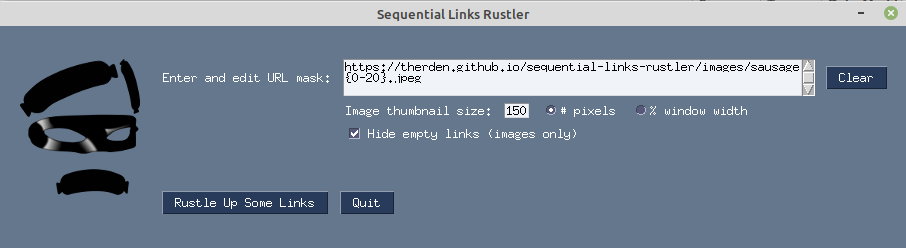
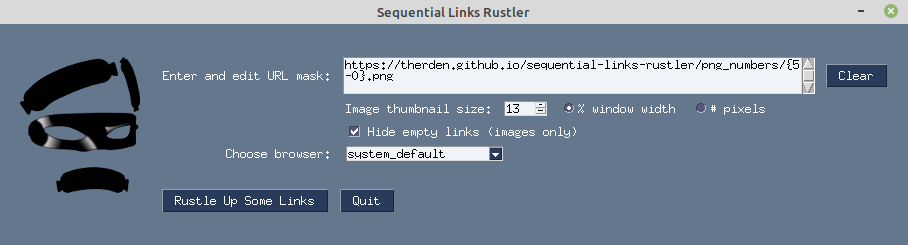
Allow user to select browser (Fixes https://github.com/therden/sequential-links-rustler/issues/3

diff --git a/main.py b/main.py
@@ -11,7 +11,9 @@ will include the "stop" value.
 
 See the doc string for each function for more details.
 """
-import os, re, textwrap, webbrowser
+import os, re, textwrap, threading, webbrowser
+
+from lookup import supported_image_extensions
 
 
 def check_sequence_definitions(sequence_defs):
@@ -114,7 +116,7 @@ def get_URL_list_generator(URL_mask):
     return (new_URL_mask % each for each in value_tuples)
 
 
-def get_HTML_file(URL_mask, targetfile=None, thumbsize="150px", hide_missing=False):
+def get_HTML_file(URL_mask, targetfile=None, thumbsize="16%", hide_missing=False):
     """
     Accepts a URL_mask and saves all of the URL links which it defines to a
     file ("links.html" by default, but target file name can be overwritten.)
@@ -178,27 +180,9 @@ def get_HTML_file(URL_mask, targetfile=None, thumbsize="150px", hide_missing=Fal
 
 
 def are_links_images(URL_mask):
-    image_extensions = (
-        "apng",
-        "avif",
-        "bmp",
-        "gif",
-        "ico",
-        "jpg",
-        "jpeg",
-        "jfif",
-        "pjpeg",
-        "pjp",
-        "png",
-        "svg",
-        "webp",
-        "cur",
-        "tif",
-        "tiff",
-    )
     URL_mask = URL_mask.strip().lower()
     _, ext = URL_mask[-6:].split(".")
-    return ext in image_extensions
+    return ext in supported_image_extensions
 
 
 # def open_file_in_firefox(URL):
@@ -206,22 +190,38 @@ def are_links_images(URL_mask):
 #     webbrowser.register("firefox", None, webbrowser.GenericBrowser("firefox"))
 #     ff = webbrowser.get("firefox")
 #     ff.open_new_tab(URL)
+#
+#
+# def open_file_in_default_browser(URL):
+#     """The name says it all."""
+#     wb = webbrowser.get()
+#     wb.open_new_tab(URL)
 
 
-def open_file_in_default_browser(URL):
+def open_file_in_selected_browser(URL, selected_browser=None):
     """The name says it all."""
-    wb = webbrowser.get()
-    wb.open_new_tab(URL)
+    if selected_browser in ("system_default", None):
+        wb = webbrowser.get()
+    else:
+        webbrowser.register(
+            selected_browser, None, webbrowser.GenericBrowser(selected_browser)
+        )
+        wb = webbrowser.get(using=selected_browser)
+    browser_process = lambda: wb.open_new_tab(URL)
+    t = threading.Thread(target=browser_process)
+    t.start()
 
 
 def make_and_open_HTML_file_from_URL_mask(
-    URL_mask, targetfile=None, thumbsize="150px", hide_missing=True
+    URL_mask, targetfile=None, selected_browser=None, thumbsize="16%", hide_missing=True
 ):
     """Again: the name says it all.  Uses the functions defined above."""
     URL = get_HTML_file(
         URL_mask, targetfile=targetfile, thumbsize=thumbsize, hide_missing=hide_missing
     )
-    open_file_in_default_browser(URL)
+    # open_file_in_default_browser(URL)
+    # open_file_in_selected_browser(URL, selected_browser=None)
+    open_file_in_selected_browser(URL, selected_browser=selected_browser)
 
 
 rustle_up_some_links = make_and_open_HTML_file_from_URL_mask
@@ -251,4 +251,6 @@ def test_URL_generation_from_masks():
 
 
 if __name__ == "__main__":
-    test_URL_generation_from_masks()
+    # test_URL_generation_from_masks()
+    # open_file_in_selected_browser("rustled.html", selected_browser="firefox")
+    open_file_in_selected_browser("rustled.html", selected_browser="chromium-browser")

diff --git a/slr.py b/slr.py
@@ -3,7 +3,9 @@ import multiprocessing, random
 import PySimpleGUI as sg
 
 from main import rustle_up_some_links as do_it
+from lookup import supported_browsers
 
+thumbsize_percentages = [str(each) for each in range(1, 101)]
 
 # Define the window's contents
 window_title = "Sequential Links Rustler"
@@ -61,7 +63,13 @@ layout = [
                 # [sg.Text("")],
                 [
                     sg.Text((26 * " ") + "Image thumbnail size:"),
-                    sg.Input(size=(3, 1), default_text="14", key="-ThumbSizeNum-"),
+                    # sg.Input(size=(3, 1), default_text="13", key="-ThumbSizeNum-"),
+                    sg.Spin(
+                        thumbsize_percentages,
+                        initial_value="13",
+                        size=(4, 4),
+                        key="-ThumbSizeNum-",
+                    ),
                     sg.Radio(
                         "% window width",
                         default=True,
@@ -79,7 +87,19 @@ layout = [
                     ),
                 ],
                 # [sg.Text("")],
-                [sg.Text("")],
+                [
+                    sg.Text((9 * " ") + "Choose browser: "),
+                    sg.Combo(
+                        supported_browsers,
+                        default_value="system_default",
+                        # default_values="system_default",
+                        # select_mode="LISTBOX_SELECT_MODE_SINGLE",
+                        size=(20, 1),
+                        pad=(1, 1),
+                        readonly=True,
+                        key="-SelectedBrowser-",
+                    ),
+                ],
                 [sg.Text("")],
                 [sg.Button("Rustle Up Some Links", key="-DoIt-"), sg.Button("Quit"),],
             ]
@@ -99,22 +119,18 @@ while True:
         break
     elif event == "-DoIt-":
         thumbsize = values["-ThumbSizeNum-"]
-        if values["-Pixels-"]:
-            thumbsize += "px"
-        else:
+        if values["-PercentWidth-"]:
             thumbsize += "%"
-        proc_id = "slr_" + str(int(random.random() * 1000000000000))
-        d = multiprocessing.Process(
-            name=proc_id,
-            target=do_it(
-                values["-URLMask-"],
-                targetfile="rustled.html",
-                thumbsize=thumbsize,
-                hide_missing=values["-HideBorkedImages-"],
-            ),
+        else:
+            thumbsize += "px"
+        do_it(
+            values["-URLMask-"],
+            targetfile="rustled.html",
+            selected_browser=values["-SelectedBrowser-"],
+            thumbsize=thumbsize,
+            hide_missing=values["-HideBorkedImages-"],
         )
-        d.daemon = True
-        d.start()
+
     elif event == "-Clear URL mask-":
         window["-URLMask-"].update("")
     else:

diff --git a/lookup.py b/lookup.py
@@ -1,0 +1,45 @@
+supported_browsers = (
+    "system_default",
+    "chrome",
+    "chromium",
+    "chromium-browser",
+    "google-chrome",
+    "safari",
+    "firefox",
+    "opera",
+    "mozilla",
+    "netscape",
+    "galeon",
+    "epiphany",
+    "skipstone",
+    "kfmclient",
+    "konqueror",
+    "kfm",
+    "mosaic",
+    "grail",
+    "links",
+    "elinks",
+    "lynx",
+    "w3m",
+    "windows-default",
+    "macosx",
+)
+
+supported_image_extensions = (
+    "apng",
+    "avif",
+    "bmp",
+    "gif",
+    "ico",
+    "jpg",
+    "jpeg",
+    "jfif",
+    "pjpeg",
+    "pjp",
+    "png",
+    "svg",
+    "webp",
+    "cur",
+    "tif",
+    "tiff",
+)

diff --git a/README.md b/README.md
@@ -53,25 +53,27 @@ includes the sequence definition `{0-20}`, and from it __Sequential Links Rustle
 <img width="90%" align="center" src="assets/Links_screenshot.png">
 </figure>
 
-Special features for links to images
-------------------------------------
-- #### Specify the size of thumbnail images in pixels or % of browser window
-- #### Choose whether to hide or display links to inaccessible image files
+Special features for image links
+--------------------------------
+- __Specify the size of thumbnail images as % of browser window or in pixels__
+
+- __Choose whether to hide or display links to inaccessible image files__
 <!-- - #### Specify a separate URL mask for thumbnail images from full-size images -->
 
 Other Features
 ---------------
-<!-- - #### Choose the location where the generated HTML file will be saved
-- #### Choose name of the generated HTML file that's generated
-- #### Choose the browser in which to open the generated HTML file -->
-- #### Advanced sequence definition features
-    - ##### declining sequences
+<!-- - #### Choose the location where the generated HTML file will be saved -->
+<!-- - #### Choose name of the generated HTML file that's generated -->
+- __Choose the browser in which the generated HTML file will open__
+
+- __Advanced sequence definition features__
+    - ###### declining sequences
 
         Within the sequence definition, make *Start* the larger and *Stop* the smaller value.
 
         For example:  changing the sequence definition in the above example to `{20-0}` will generate the same page, but the images will display in reverse order.
 
-    - ##### spacing between generated values
+    - ###### spacing between generated values
 
         Between the *Stop* value and the closing curly bracket, insert a semi-colon and an integer representing the distance between consecutive values.
 
@@ -82,7 +84,7 @@ Other Features
         | {9-0;2}             | 9, 7, 5, 3, 1          |
         | {9-0;3}             | 9, 6, 3, 0             |
 
-    - ##### zero padding
+    - ###### zero padding
 
         When a website's numeric values include leading zeros, just include those in your sequence definition.  Examples:
 
@@ -91,7 +93,7 @@ Other Features
         | {01-20;5}           | 01, 06, 11, 16          |
         | {020-001; 4}        | 020, 016, 012, 008, 004 |
 
-    - ##### multiple sequence definitions within a single URL mask
+    - ###### multiple sequence definitions within a single URL mask
 
         For example: given the (partial), 3-level URL_mask
         `foo{1-2}/bar{11-12}/pic{0-2}.jpg`
